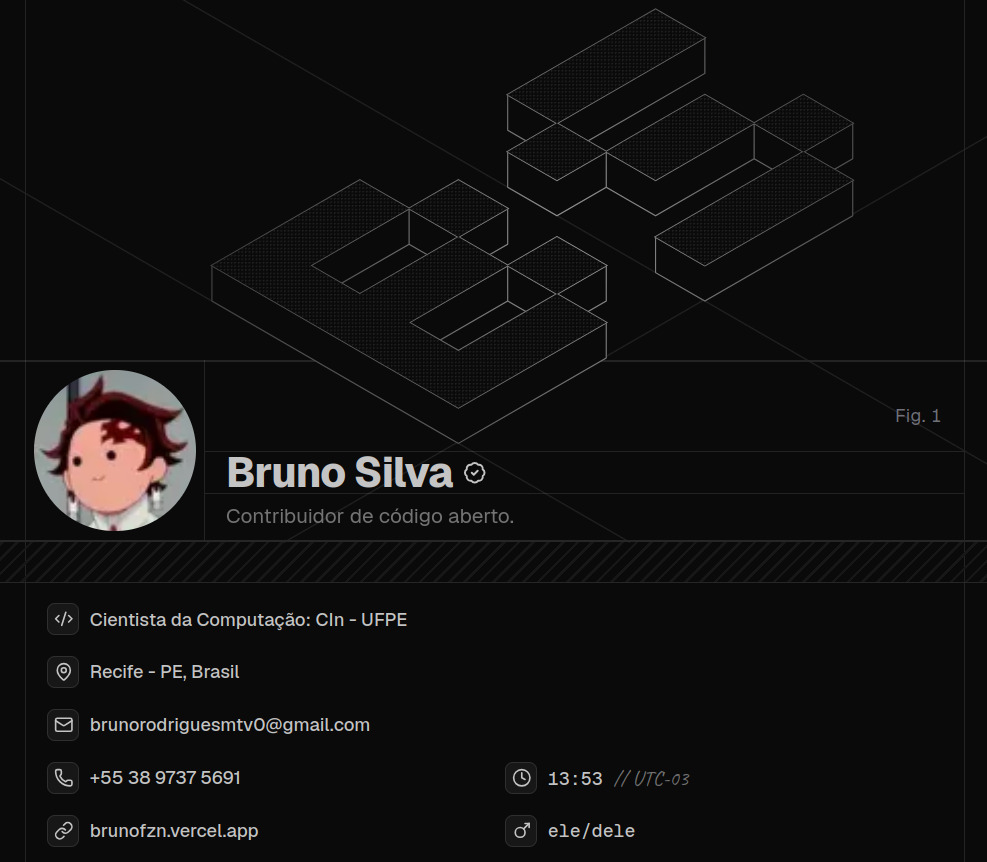
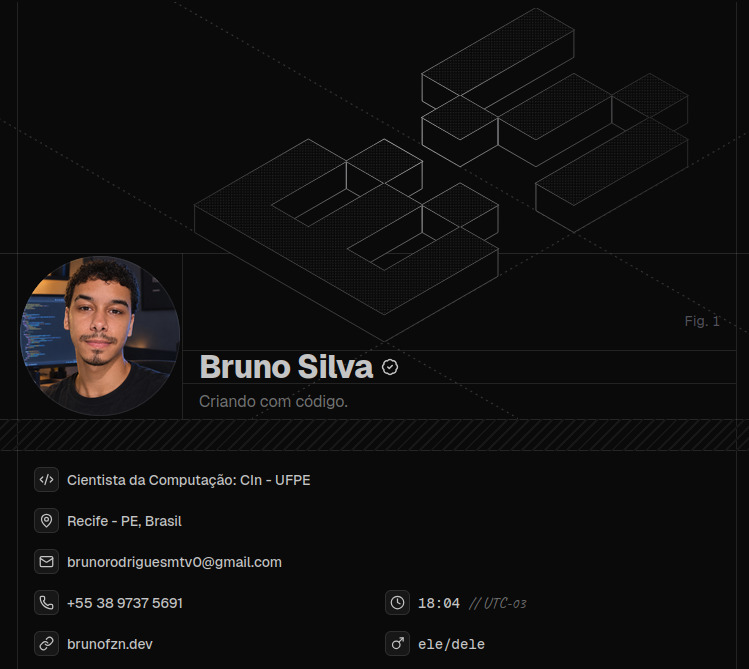
update opengraph image

diff --git a/src/lib/site-config.ts b/src/lib/site-config.ts
@@ -2,5 +2,5 @@ export const SITE_URL = "https://brunofzn.dev"
 export const SITE_NAME = "Bruno Silva - Web Developer"
 export const AUTHOR = "Bruno Rodrigues e Silva"
 export const DOMAIN = "brunofzn.dev"
-export const OPENGRAPH_IMAGE = "./opengraph-image.jpg"
+export const OPENGRAPH_IMAGE = "https://assets.brunofzn.dev/images/opengraph-image.jpg"
 export const SOURCECODE = "https://github.com/bruno-rodrigues0/brunofzn.dev"
